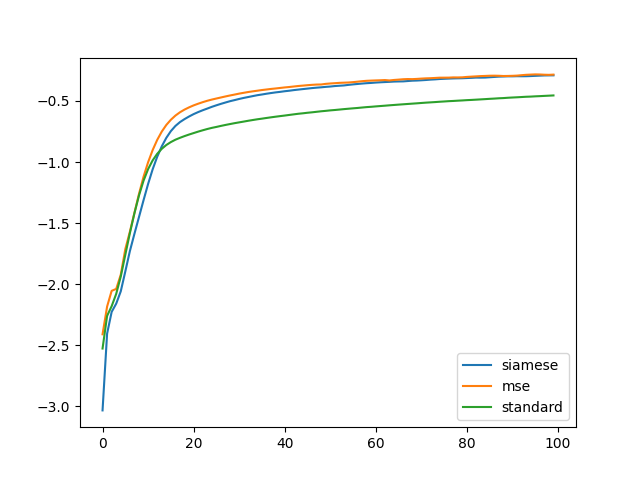
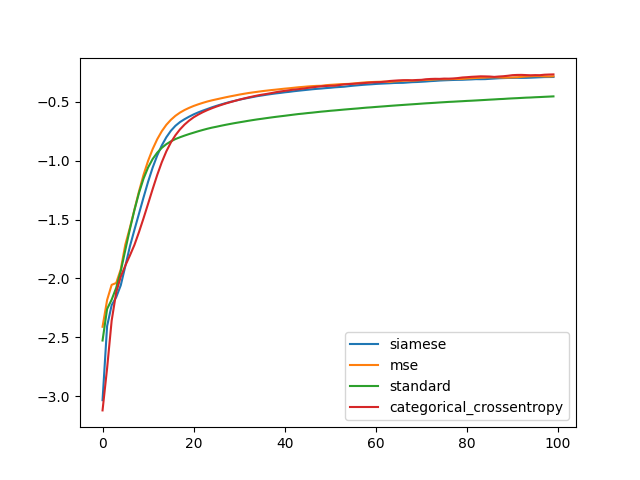
[FUNCTION] Add enable_template to train_cond_conv_mnist.py

diff --git a/reconstruct/test.py b/reconstruct/test.py
@@ -85,23 +85,17 @@ tf.enable_eager_execution()
 # plot_sample_images(sample_X=samples, epoch=0, tag="Test", size=(-1, 32, 32, 3), dir='./result/mnist')
 
 
-# G_loss_siamess = [-3.0337822, -2.405122, -2.2272274, -2.1595292, -2.0586724, -1.8956466, -1.7293581, -1.5877156, -1.4505074, -1.3127055, -1.179617, -1.0596203, -0.95693076, -0.87180275, -0.80200183, -0.74678546, -0.70447415, -0.67288846, -0.6484938, -0.6269847, -0.60755384, -0.5908335, -0.57584655, -0.56206363, -0.5479249, -0.5353234, -0.5234371, -0.51233333, -0.50164187, -0.49274558, -0.48340255, -0.47494227, -0.46748123, -0.45995235, -0.45261964, -0.44687796, -0.44056082, -0.43498516, -0.42970055, -0.4253283, -0.42013353, -0.4160382, -0.41094697, -0.4067313, -0.40256643, -0.39852852, -0.39442015, -0.39097485, -0.38807657, -0.38443077, -0.38173676, -0.37773556, -0.37518585, -0.3727281, -0.36814645, -0.36415955, -0.36071542, -0.35727158, -0.3543216, -0.35208777, -0.34914953, -0.346901, -0.34506974, -0.34332725, -0.34102148, -0.34010726, -0.3395512, -0.33672443, -0.33390483, -0.3326572, -0.33055526, -0.3281816, -0.32512006, -0.3230385, -0.32012773, -0.31831816, -0.31670552, -0.3153305, -0.31440872, -0.31378484, -0.3120593, -0.31058425, -0.30840084, -0.30884954, -0.30824834, -0.30563635, -0.3032007, -0.30072185, -0.29949203, -0.29814675, -0.29813665, -0.29721764, -0.2976078, -0.2972261, -0.2959743, -0.2942237, -0.29247195, -0.29086268, -0.2903492, -0.29008278]
-# G_loss_mse = [-2.4105318, -2.1835139, -2.0547256, -2.038969, -1.9224032, -1.7127409, -1.570505, -1.4158919, -1.2612289, -1.1206065, -1.0019292, -0.9021655, -0.8187922, -0.7508084, -0.6963783, -0.65388083, -0.61965746, -0.5924967, -0.57047135, -0.552161, -0.53601426, -0.5223007, -0.5097139, -0.49828944, -0.48844355, -0.47978103, -0.47128004, -0.46279895, -0.45480382, -0.44750208, -0.4397449, -0.43302447, -0.42655006, -0.42098138, -0.4158585, -0.4104612, -0.40601993, -0.40137318, -0.3975851, -0.39327815, -0.3891348, -0.3856006, -0.38145226, -0.377269, -0.3741673, -0.37069294, -0.36786813, -0.36559007, -0.36495918, -0.35987994, -0.35680428, -0.35439163, -0.35163763, -0.35013026, -0.3487489, -0.34570593, -0.34195307, -0.33794093, -0.33486837, -0.33317378, -0.33167946, -0.33044845, -0.32874215, -0.33190656, -0.32793903, -0.32518864, -0.32209405, -0.32050422, -0.32124725, -0.31931666, -0.3167782, -0.3147679, -0.31348315, -0.31152794, -0.3093388, -0.30911416, -0.3088759, -0.30701166, -0.30734664, -0.3063308, -0.30300042, -0.30068797, -0.2985457, -0.29629982, -0.294999, -0.29338852, -0.2928661, -0.29368466, -0.29556566, -0.2950845, -0.29400668, -0.2923407, -0.2888543, -0.28578752, -0.28402737, -0.28237304, -0.2831463, -0.28504127, -0.2860436, -0.28418863]
-# G_loss_standard = [-2.5272303, -2.2599187, -2.1803277, -2.0794744, -1.9378928, -1.7589669, -1.582489, -1.4194955, -1.2739793, -1.1528821, -1.0581777, -0.98658675, -0.93271124, -0.8916829, -0.86048824, -0.83654517, -0.8170616, -0.80165935, -0.78761476, -0.7747015, -0.762785, -0.7508714, -0.73992175, -0.7295304, -0.7202683, -0.71247536, -0.70404977, -0.69621277, -0.688843, -0.6816759, -0.6751272, -0.6686966, -0.6619889, -0.65583944, -0.64985627, -0.64469385, -0.6391457, -0.63380116, -0.6287301, -0.6239458, -0.61932033, -0.6143306, -0.60946244, -0.60461557, -0.60089755, -0.5964616, -0.5928352, -0.5885878, -0.5843552, -0.5808906, -0.57694566, -0.5738749, -0.57032293, -0.56671834, -0.5634334, -0.5602523, -0.5571784, -0.5535208, -0.55014426, -0.54757977, -0.544408, -0.5414751, -0.53860646, -0.5354983, -0.5326768, -0.5298487, -0.527196, -0.524459, -0.5218472, -0.5192527, -0.5163674, -0.51365304, -0.51139826, -0.5090391, -0.5063368, -0.5040301, -0.50153357, -0.49979818, -0.4975401, -0.49553615, -0.49315116, -0.49138528, -0.48924616, -0.48705134, -0.48483506, -0.48245937, -0.4804354, -0.4779648, -0.47630227, -0.473645, -0.47159603, -0.46977624, -0.46765912, -0.46548533, -0.46415552, -0.4619837, -0.46034828, -0.45841053, -0.4565723, -0.45465466]
-# epoch = 100
-# chart_dir = './chart/'
-# plt.plot(np.arange(epoch), G_loss_siamess, label='siamese')
-# plt.plot(np.arange(epoch), G_loss_mse, label='mse')
-# plt.plot(np.arange(epoch), G_loss_standard, label='standard')
-# plt.legend()
-# plt.savefig(os.path.join(chart_dir, 'compare_G.png'))
+G_loss_siamess = [-3.0337822, -2.405122, -2.2272274, -2.1595292, -2.0586724, -1.8956466, -1.7293581, -1.5877156, -1.4505074, -1.3127055, -1.179617, -1.0596203, -0.95693076, -0.87180275, -0.80200183, -0.74678546, -0.70447415, -0.67288846, -0.6484938, -0.6269847, -0.60755384, -0.5908335, -0.57584655, -0.56206363, -0.5479249, -0.5353234, -0.5234371, -0.51233333, -0.50164187, -0.49274558, -0.48340255, -0.47494227, -0.46748123, -0.45995235, -0.45261964, -0.44687796, -0.44056082, -0.43498516, -0.42970055, -0.4253283, -0.42013353, -0.4160382, -0.41094697, -0.4067313, -0.40256643, -0.39852852, -0.39442015, -0.39097485, -0.38807657, -0.38443077, -0.38173676, -0.37773556, -0.37518585, -0.3727281, -0.36814645, -0.36415955, -0.36071542, -0.35727158, -0.3543216, -0.35208777, -0.34914953, -0.346901, -0.34506974, -0.34332725, -0.34102148, -0.34010726, -0.3395512, -0.33672443, -0.33390483, -0.3326572, -0.33055526, -0.3281816, -0.32512006, -0.3230385, -0.32012773, -0.31831816, -0.31670552, -0.3153305, -0.31440872, -0.31378484, -0.3120593, -0.31058425, -0.30840084, -0.30884954, -0.30824834, -0.30563635, -0.3032007, -0.30072185, -0.29949203, -0.29814675, -0.29813665, -0.29721764, -0.2976078, -0.2972261, -0.2959743, -0.2942237, -0.29247195, -0.29086268, -0.2903492, -0.29008278]
+G_loss_mse = [-2.4105318, -2.1835139, -2.0547256, -2.038969, -1.9224032, -1.7127409, -1.570505, -1.4158919, -1.2612289, -1.1206065, -1.0019292, -0.9021655, -0.8187922, -0.7508084, -0.6963783, -0.65388083, -0.61965746, -0.5924967, -0.57047135, -0.552161, -0.53601426, -0.5223007, -0.5097139, -0.49828944, -0.48844355, -0.47978103, -0.47128004, -0.46279895, -0.45480382, -0.44750208, -0.4397449, -0.43302447, -0.42655006, -0.42098138, -0.4158585, -0.4104612, -0.40601993, -0.40137318, -0.3975851, -0.39327815, -0.3891348, -0.3856006, -0.38145226, -0.377269, -0.3741673, -0.37069294, -0.36786813, -0.36559007, -0.36495918, -0.35987994, -0.35680428, -0.35439163, -0.35163763, -0.35013026, -0.3487489, -0.34570593, -0.34195307, -0.33794093, -0.33486837, -0.33317378, -0.33167946, -0.33044845, -0.32874215, -0.33190656, -0.32793903, -0.32518864, -0.32209405, -0.32050422, -0.32124725, -0.31931666, -0.3167782, -0.3147679, -0.31348315, -0.31152794, -0.3093388, -0.30911416, -0.3088759, -0.30701166, -0.30734664, -0.3063308, -0.30300042, -0.30068797, -0.2985457, -0.29629982, -0.294999, -0.29338852, -0.2928661, -0.29368466, -0.29556566, -0.2950845, -0.29400668, -0.2923407, -0.2888543, -0.28578752, -0.28402737, -0.28237304, -0.2831463, -0.28504127, -0.2860436, -0.28418863]
+G_loss_standard = [-2.5272303, -2.2599187, -2.1803277, -2.0794744, -1.9378928, -1.7589669, -1.582489, -1.4194955, -1.2739793, -1.1528821, -1.0581777, -0.98658675, -0.93271124, -0.8916829, -0.86048824, -0.83654517, -0.8170616, -0.80165935, -0.78761476, -0.7747015, -0.762785, -0.7508714, -0.73992175, -0.7295304, -0.7202683, -0.71247536, -0.70404977, -0.69621277, -0.688843, -0.6816759, -0.6751272, -0.6686966, -0.6619889, -0.65583944, -0.64985627, -0.64469385, -0.6391457, -0.63380116, -0.6287301, -0.6239458, -0.61932033, -0.6143306, -0.60946244, -0.60461557, -0.60089755, -0.5964616, -0.5928352, -0.5885878, -0.5843552, -0.5808906, -0.57694566, -0.5738749, -0.57032293, -0.56671834, -0.5634334, -0.5602523, -0.5571784, -0.5535208, -0.55014426, -0.54757977, -0.544408, -0.5414751, -0.53860646, -0.5354983, -0.5326768, -0.5298487, -0.527196, -0.524459, -0.5218472, -0.5192527, -0.5163674, -0.51365304, -0.51139826, -0.5090391, -0.5063368, -0.5040301, -0.50153357, -0.49979818, -0.4975401, -0.49553615, -0.49315116, -0.49138528, -0.48924616, -0.48705134, -0.48483506, -0.48245937, -0.4804354, -0.4779648, -0.47630227, -0.473645, -0.47159603, -0.46977624, -0.46765912, -0.46548533, -0.46415552, -0.4619837, -0.46034828, -0.45841053, -0.4565723, -0.45465466]
+G_loss_categorical_crossentropy = [-3.1205888, -2.7630827, -2.3588722, -2.118352, -1.9847388, -1.8912618, -1.8060253, -1.715695, -1.6067297, -1.4893035, -1.3664254, -1.241955, -1.1223407, -1.0145011, -0.9218984, -0.84592104, -0.78460133, -0.7350798, -0.69425493, -0.6606345, -0.632211, -0.6094243, -0.5891188, -0.57142335, -0.5556517, -0.5411896, -0.5280137, -0.51560223, -0.504389, -0.49344072, -0.4826143, -0.47320685, -0.46378908, -0.4553788, -0.44720876, -0.44021377, -0.43403, -0.42710307, -0.4197375, -0.41328603, -0.4079501, -0.402446, -0.39719403, -0.39348733, -0.3890944, -0.3829748, -0.37862396, -0.373414, -0.36933038, -0.3663362, -0.36476684, -0.36412042, -0.35844895, -0.35335875, -0.35025305, -0.34826472, -0.3450846, -0.34283757, -0.33992964, -0.33673805, -0.33456054, -0.33354107, -0.32994014, -0.32419357, -0.32138726, -0.31879297, -0.31728297, -0.31707415, -0.31807286, -0.31557107, -0.31422725, -0.30943155, -0.30688924, -0.3055466, -0.30613232, -0.30378276, -0.30421436, -0.30256864, -0.29921442, -0.29425752, -0.29178128, -0.28865615, -0.2867059, -0.28443003, -0.28507835, -0.28613734, -0.28928292, -0.28608796, -0.2836157, -0.27962846, -0.27453175, -0.27270412, -0.27229053, -0.27391356, -0.27543497, -0.27417037, -0.27468252, -0.27084476, -0.26923418, -0.26807952]
+epoch = 100
+chart_dir = './chart/'
+plt.plot(np.arange(epoch), G_loss_siamess, label='siamese')
+plt.plot(np.arange(epoch), G_loss_mse, label='mse')
+plt.plot(np.arange(epoch), G_loss_standard, label='standard')
+plt.plot(np.arange(epoch), G_loss_categorical_crossentropy, label='categorical_crossentropy')
+plt.legend()
+plt.savefig(os.path.join(chart_dir, 'compare_G.png'))
 
 
-from sklearn.metrics import classification_report
-aux_model = load_model("./model/mnist_classifer.h5")
-preds = aux_model.predict(X_train.reshape(-1, 784).astype("float32"))
-y = to_categorical(y_train).astype("float32")
-print(y.shape)
-target = ['0', '1', '2', '3','4' ,'5','6','7','8','9']
-print(y[2])
-print(np.argmax(preds[2]))

diff --git a/reconstruct/train_cond_conv_mnist.py b/reconstruct/train_cond_conv_mnist.py
@@ -15,33 +15,39 @@ import matplotlib.pyplot as plt
 import os 
 
 
-def train_generator(x, y, z, eps, dcgan, loss=None, siamese_model=None):
-
+def train_generator(x, y, z, eps, dcgan, loss=None, siamese_model=None, template_samples=None):
+ 
+    # 如果参数templates_samples不为空，说明需要按照输入的模版样本来引导样本生成
+    if template_samples is not None:
+        templates = x
+        y_templates = np.argmax(y, axis=1)
+        for i in range(10):
+            templates[y_templates==i] = template_samples[i]
+    else:
+        templates = x
+            
+            
     with tf.GradientTape(persistent=True) as t:
         fake_x = dcgan.generator([z, y])
         loss_G = -tf.reduce_mean(dcgan.discriminator(fake_x)) 
-
-        # =========================standard=======================================
+        
         if loss == 'origin':
             aux_loss = 0
-        # =========================MSE LOSS=======================================
         elif loss == 'mse':
-            aux_loss = mean_squared_error(x, fake_x)
+            aux_loss = mean_squared_error(templates, fake_x)
             aux_loss = 10*tf.reduce_mean(axu_loss)
-        # =========================siamese LOSS====================================
         elif loss == 'siamese':
             v1 = siamese_model(fake_x)
-            v2 = siamese_model(x)
+            v2 = siamese_model(templates)
             test_distance = Lambda(euclidean_distance,
                                     output_shape=eucl_dist_output_shape)([v1, v2])
-
             aux_loss = tf.reduce_mean(test_distance)
         elif loss == 'categorical_crossentropy':
             preds = aux_model(fake_x)
             aux_loss = K.categorical_crossentropy(y, preds)
             aux_loss = tf.reduce_mean(aux_loss)
         elif loss == 'cosin_distance':
-            aux_loss = cosin_distance(x, fake_x)
+            aux_loss = cosin_distance(templates, fake_x)
             aux_loss = -tf.reduce_mean(aux_loss)
         else:
             raise ValueError("[Error] Wrong value of loss!")
@@ -84,6 +90,22 @@ def generate_conditional_sample(generator):
     samples = generator.predict([z, y])
     return samples
 
+def generate_templates(X_train, y_train):
+    """generate template samples from X_train, one for each category
+
+    Args:
+        X_train (nD_array): training samples
+        y_train (nD_array): training labels
+
+    Returns:
+        1D_array: one templates sample for each category
+    """
+    templates = []
+    for i in range(9):
+        template = X_train[y_train == i][0]
+        templates.append(template)
+    templates = np.array(templates)
+    return templates
 
 
 #开启动态图模式
@@ -106,10 +128,11 @@ learning_rate_G = 1e-4
 
 epoch_num = 100
 loss = 'cosin_distance'
+enable_template = True
+
 pic_dir = './pic/conv_mnist'
 chart_dir = './chart/conv_mnist'
-D_losses = []
-G_losses = []
+
 
 if loss == 'siamese':
     aux_model = load_model("./checkpoint/siamese_40.h5")
@@ -118,6 +141,19 @@ elif loss == 'categorical_crossentropy':
 else:
     aux_model = None
 
+if enable_template = True:
+    template_samples = generate_templates(X_train, y_train)
+else:
+    template_samples = None
+
+def normal_func(X, y, image_size, nc):
+     X = X.reshape(-1, image_size*image_size*nc)
+     X = X.astype(np.float32) /255.0
+     y = to_categorical(y)
+     y = y.astype(np.float32) 
+     return X, y
+
+dataset = generate_GAN_inputs(X_train, y_train, batch_size=batch_size, normal_func=normal_func, image_size=image_size, nc=nc)
 
 dcgan = DCMGAN(learning_rate_G=learning_rate_G,
                 learning_rate_D=learning_rate_D,
@@ -132,29 +168,17 @@ dcgan = DCMGAN(learning_rate_G=learning_rate_G,
                 dataset='mnist',
                 condtional=True)
 
-print('[DEBUG] The address of  DCGAN: {}'.format(dcgan))
-print('[DEBUG] The address of  generator: {}'.format(dcgan.generator))
-# print("[DEBUG] The model of generator")
-# dcgan.generator.summary()
-# print("[DEBUG] The model of discriminator")
-# dcgan.discriminator.summary()
-
-def normal_func(X, y, image_size, nc):
-     X = X.reshape(-1, image_size*image_size*nc)
-     X = X.astype(np.float32) /255.0
-     y = to_categorical(y)
-     y = y.astype(np.float32) 
-     return X, y
-
-dataset = generate_GAN_inputs(X_train, y_train, batch_size=batch_size, normal_func=normal_func, image_size=image_size, nc=nc)
 
 
+
+D_losses = []
+G_losses = []
 for epoch in range(epoch_num):
     num = 0
     G_temp_loss = []
     D_temp_loss = []
     for((z, y), (x, eps)) in dataset:
-        fake_x, loss_G, axu_loss, loss= train_generator(x, y, z, eps, dcgan, loss, aux_model)     
+        fake_x, loss_G, axu_loss, loss= train_generator(x, y, z, eps, dcgan, loss, aux_model, template_samples)     
         for i in range(5):
             loss_D = train_discriminator(x, y, z, eps, dcgan)
         num += 1
@@ -172,10 +196,10 @@ for epoch in range(epoch_num):
         plt.plot(np.arange(epoch+1), G_losses)
         plt.plot(np.arange(epoch+1), D_losses)
         plt.legend()
-        plt.savefig(os.path.join(chart_dir, 'conditional_{}_loss_batch_256.png'.format(loss)))
+        plt.savefig(os.path.join(chart_dir, 'conditional_{}_loss_batch_256_template{}.png'.format(loss, enable_template)))
 
     
-file1 = open("./data/mnist_{}.log".format(loss), 'w')
+file1 = open("./data/mnist_{}_template_{}.log".format(loss, enable_template), 'w')
 file1.write("G_loss: \n")
 file1.write(str(G_losses))
 file1.write('\n')
@@ -183,4 +207,4 @@ file1.write("D_loss:\n")
 file1.write(str(D_losses))
 file1.close()
 
-dcgan.generator.save("./model/mnist_{}.h5".format(loss))
+dcgan.generator.save("./model/mnist_{}_template_{}.h5".format(loss, enable_template))
